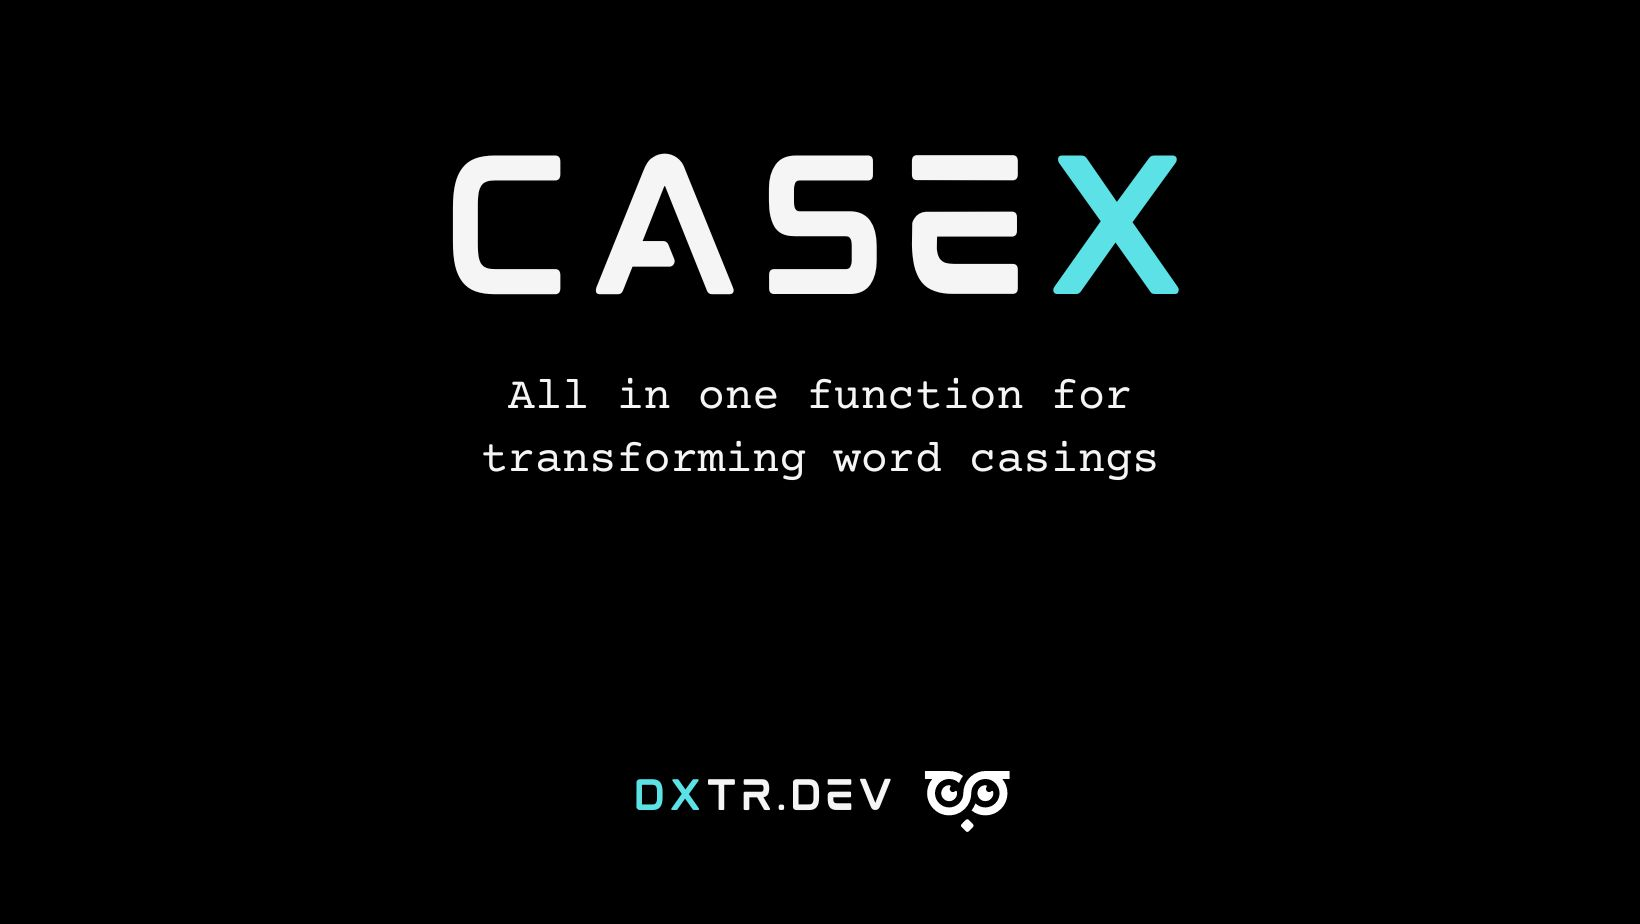
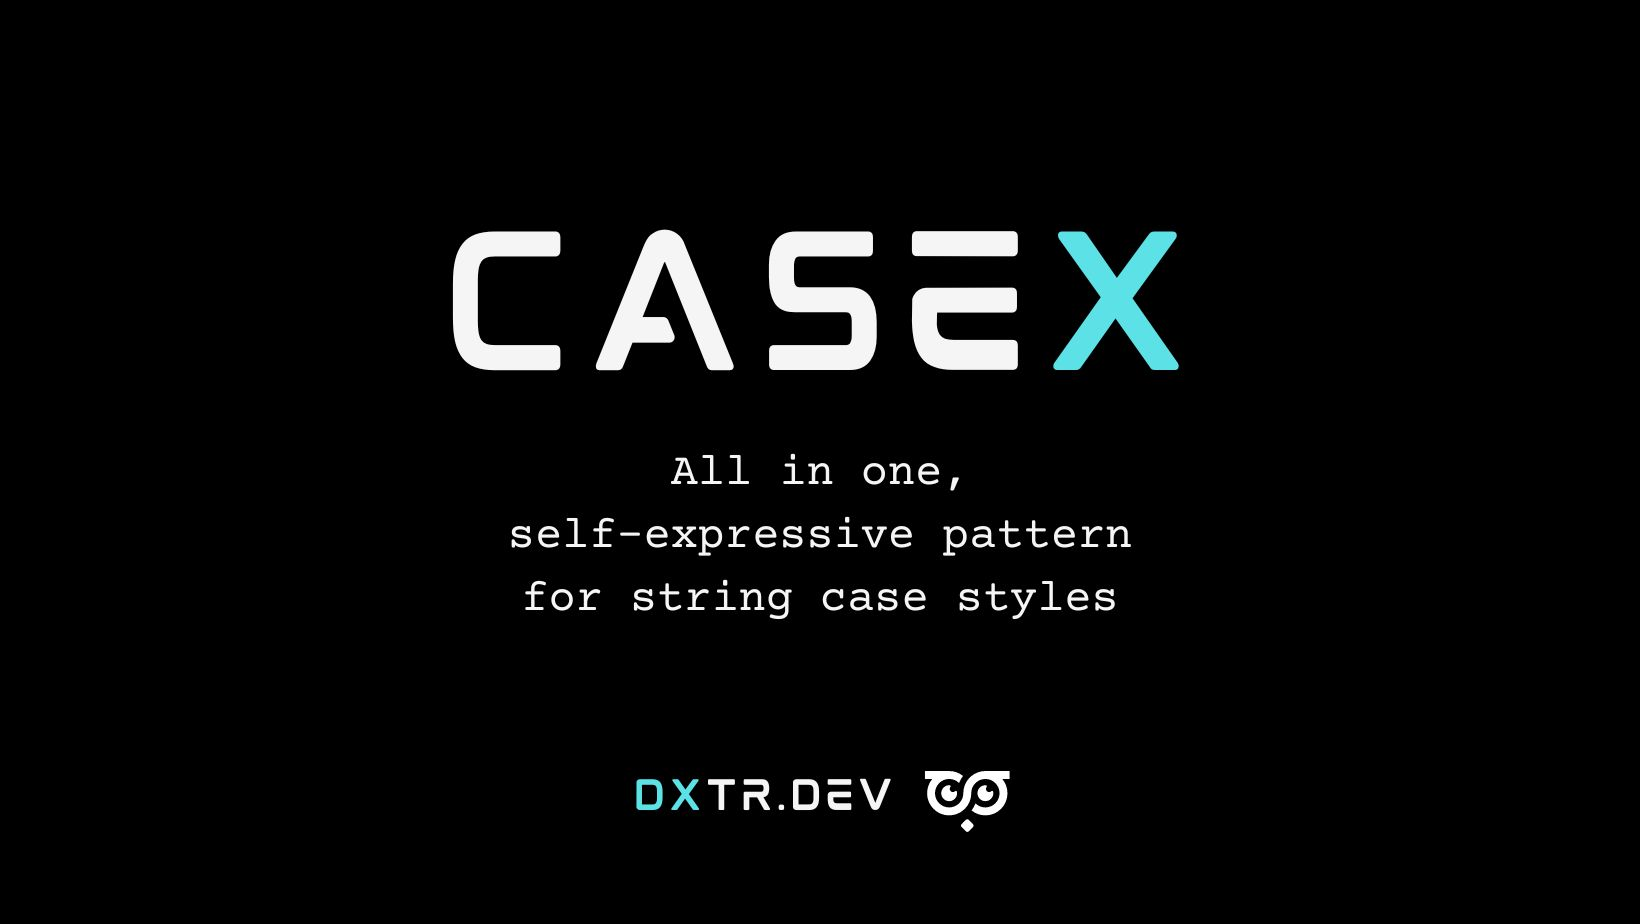
Update readme and cover image

Changed region(s): [[0.2488, 0.1515, 0.7152, 0.4545], [0.2799, 0.4848, 0.7152, 0.6061], [0.311, 0.6364, 0.6841, 0.6667]]

diff --git a/README.md b/README.md
@@ -3,7 +3,7 @@
 </p>
 
 <p align="center">
-  All in one, self expressive function for string case styles
+  All in one, self expressive pattern for string case styles
 </p>
 
 <p align="center">
@@ -54,4 +54,4 @@ Casex 4.x is not compatible previous versions. If you need previous docs please 
 
 ## License
 
-Casex is open-sourced software licensed under the [./LICENSE.md](MIT license).
+Casex is open-sourced software licensed under the [MIT License](./LICENSE.md).
